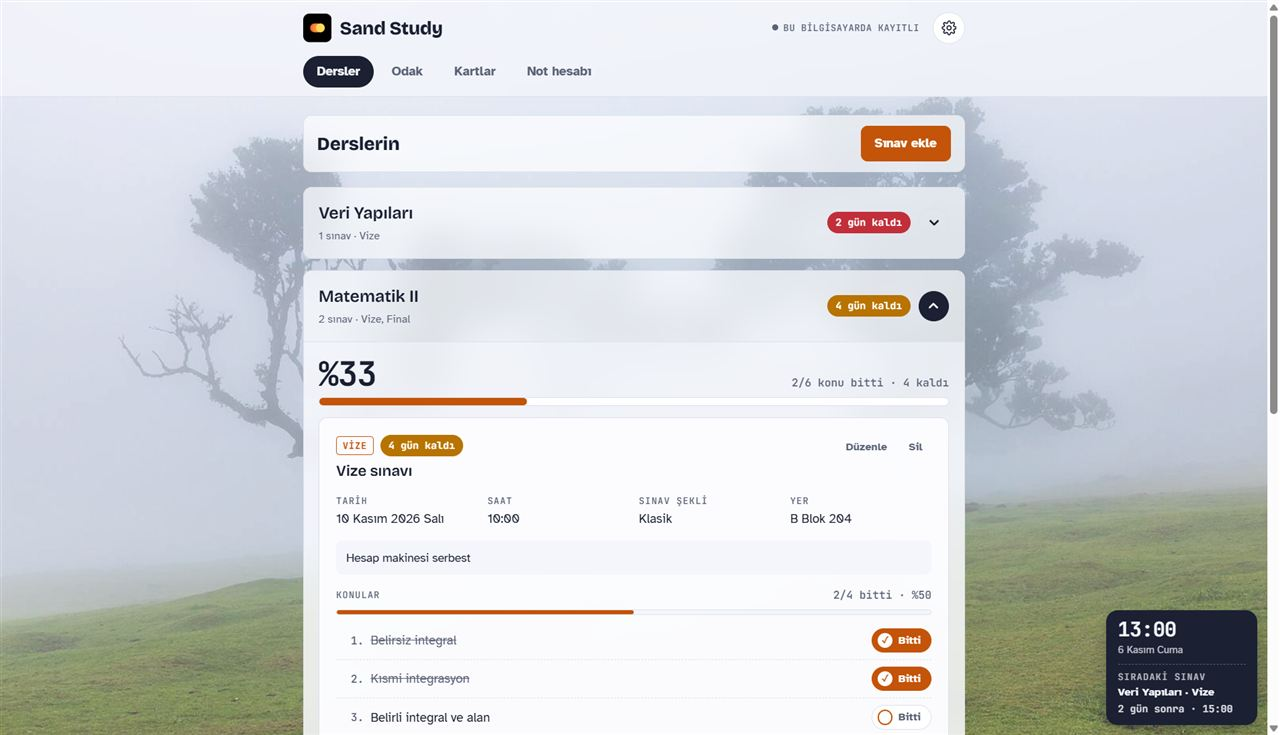
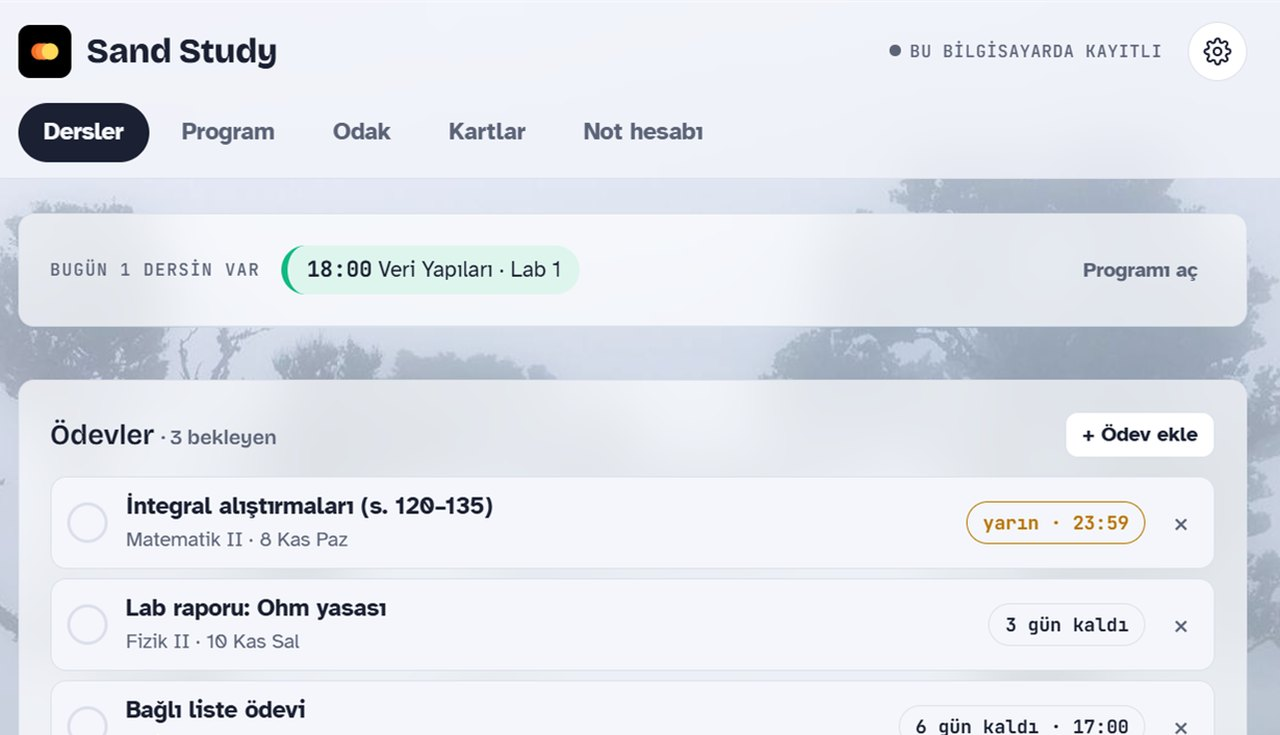
Sand Study 1.1.0: ders programı, ödev takibi, hatırlatıcılar ve not kuralları

diff --git a/index.html b/index.html
@@ -75,7 +75,8 @@
         "applicationCategory": "EducationalApplication",
         "operatingSystem": "Windows 10, Windows 11",
         "inLanguage": ["tr", "en", "ru"],
-        "description": "Vize, final ve bütünleme sınavlarına çalışma uygulaması: sınav takibi, konu ilerlemesi, odak sayacı, bilgi kartları ve not hesabı.",
+        "description": "Öğrenciler için çalışma uygulaması: sınav ve konu takibi, haftalık ders programı, ödev takibi, hatırlatıcı bildirimler, odak sayacı, bilgi kartları ve üniversiteye göre ayarlanabilen not hesabı.",
+        "softwareVersion": "1.1.0",
         "image": "https://sandcodetr.com/images/sand-study-dersler.jpg",
         "offers": {"@type": "Offer", "price": "0", "priceCurrency": "TRY"},
         "author": {"@id": "https://sandcodetr.com/#isletme"}
@@ -269,7 +270,7 @@
         </article>
         <article class="proj shot" data-c="yazilim">
           <img src="images/sand-study-dersler.jpg" width="1280" height="735" alt="Sand Study sınav çalışma uygulaması ekranı" loading="lazy">
-          <div><span class="tag">Masaüstü uygulama</span><h3>Sand Study</h3><p>Öğrenciler için sınav takibi, odak sayacı ve not hesabı. Yakında Microsoft Store'da, ücretsiz.</p><a class="more" href="#sand-study">İncele →</a></div>
+          <div><span class="tag">Masaüstü uygulama</span><h3>Sand Study</h3><p>Öğrenciler için sınav takibi, ders programı, ödevler, hatırlatıcılar ve not hesabı. Yakında Microsoft Store'da, ücretsiz.</p><a class="more" href="#sand-study">İncele →</a></div>
         </article>      </div>
     </div>
   </section>
@@ -287,12 +288,14 @@
       <div class="study-copy">
         <p class="eyebrow">Eğitim · Ücretsiz</p>
         <h2>Sand Study</h2>
-        <p class="lead">Vize, final ve bütünleme sınavlarına düzenli çalışmak için masaüstü uygulaması. Yakında Microsoft Store'da, ücretsiz.</p>
+        <p class="lead">Sınavların, ders programın ve ödevlerin tek uygulamada. Öğrenciler için masaüstü uygulaması; yakında Microsoft Store'da, ücretsiz.</p>
         <ul class="ticks">
-          <li>Adım adım sınav ekleme ve konu takibi</li>
-          <li>Odak sayacı ve haftalık çalışma grafiği</li>
-          <li>Cevabı yazarak çalışılan bilgi kartları</li>
-          <li>Finalde ve bütte kaç gerektiğini hesaplayan not hesabı</li>
+          <li>Sınav ve konu takibi, ilerleme yüzdesi</li>
+          <li>Haftalık ders programı, sıradaki ders hep köşede</li>
+          <li>Teslim tarihli ödev takibi</li>
+          <li>Sınav, ders ve ödev öncesi hatırlatıcı bildirimler</li>
+          <li>Üniversitene göre ayarlanan not hesabı: vize/final yüzdesi, baraj, quiz notları</li>
+          <li>Odak sayacı, haftalık grafik ve bilgi kartları</li>
           <li>Türkçe, İngilizce, Rusça · hesap ve internet gerekmez</li>
         </ul>
         <div class="row">
@@ -301,8 +304,8 @@
         </div>
       </div>
       <figure class="shots">
-        <img class="s1" src="images/sand-study-dersler.jpg" width="1280" height="735" alt="Sand Study ders kartları ve konu takibi ekranı" loading="lazy">
-        <img class="s2" src="images/sand-study-odak.jpg" width="1280" height="735" alt="Sand Study odak sayacı ekranı" loading="lazy">
+        <img class="s1" src="images/sand-study-program.jpg" width="1280" height="735" alt="Sand Study haftalık ders programı ekranı" loading="lazy">
+        <img class="s2" src="images/sand-study-dersler.jpg" width="1280" height="735" alt="Sand Study ödev takibi ve bugünkü dersler ekranı" loading="lazy">
       </figure>
     </div>
 
